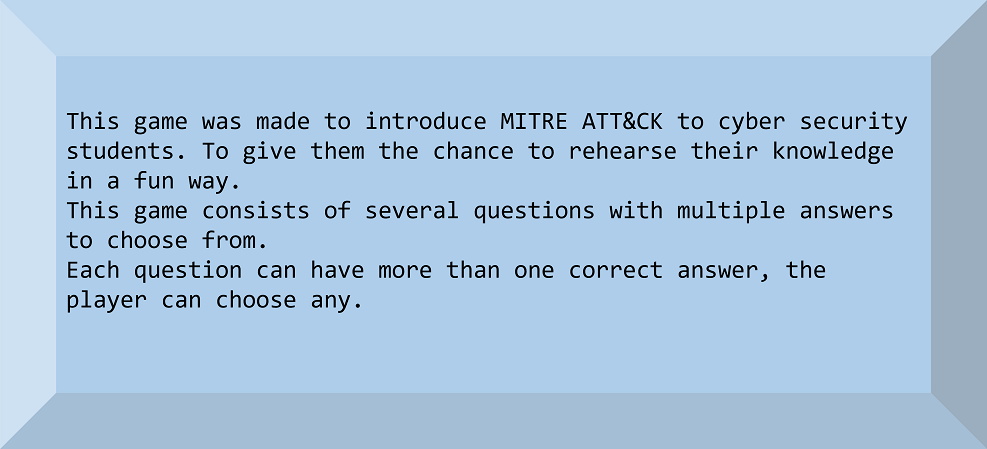
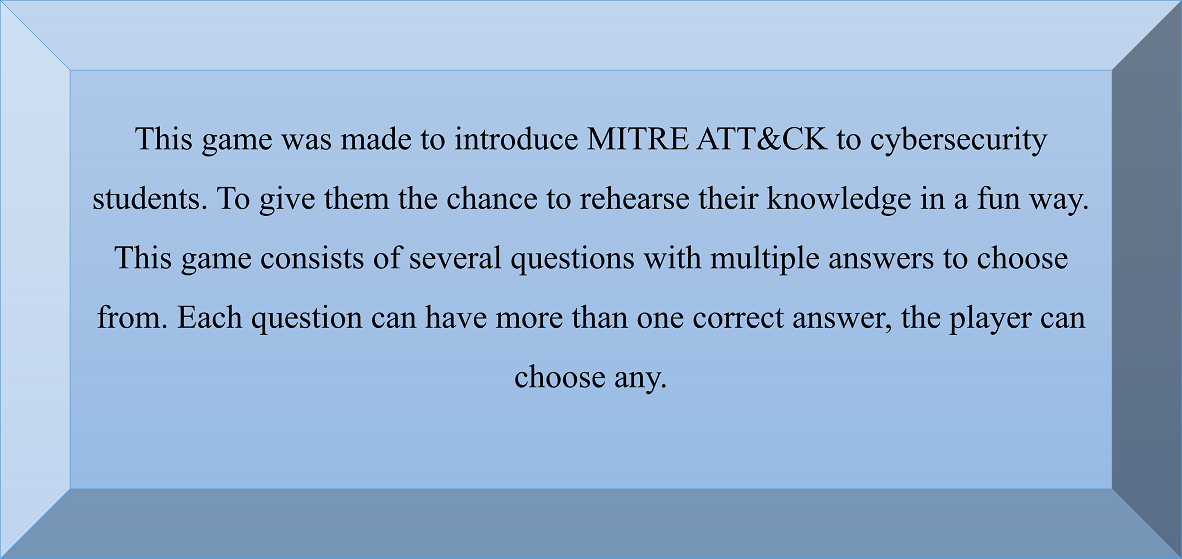
new imgs

diff --git a/theGame/templates/about.html b/theGame/templates/about.html
@@ -1,13 +1,11 @@
 {% load static %}
-<html >
-<body id="bg" class="back" >
 
 <link rel="stylesheet" type="text/css" href="{% static 'css/main.css' %}">
-<table>
+
+<body id="bg" class="tdStyScore" >
+
+<table align="center">
     <tr>
-      <td >
-          <div class="div1"></div> 
-      </td>
       <td>
           <div class="about"   id="about1">
              <img src="{% static 'images/about16.png' %}" class="pic" > 
@@ -16,13 +14,11 @@
              <input type="submit" value="Next" class=" button button2" onclick="next1()">
            </div>
        </td>
-     <td>
-        <div class="div1"></div> 
-     </td>
+   
    </tr>
 </table>
 
-
+</body>
 <div class="invisibleDiv" id="about1Backup">
     <img src="{% static 'images/about16.png' %}" class="pic">
     <br>
@@ -55,9 +51,9 @@
 
 </div>
 
-</body>
 
-</html>
+
+
 <script>
 function next1(){
 
